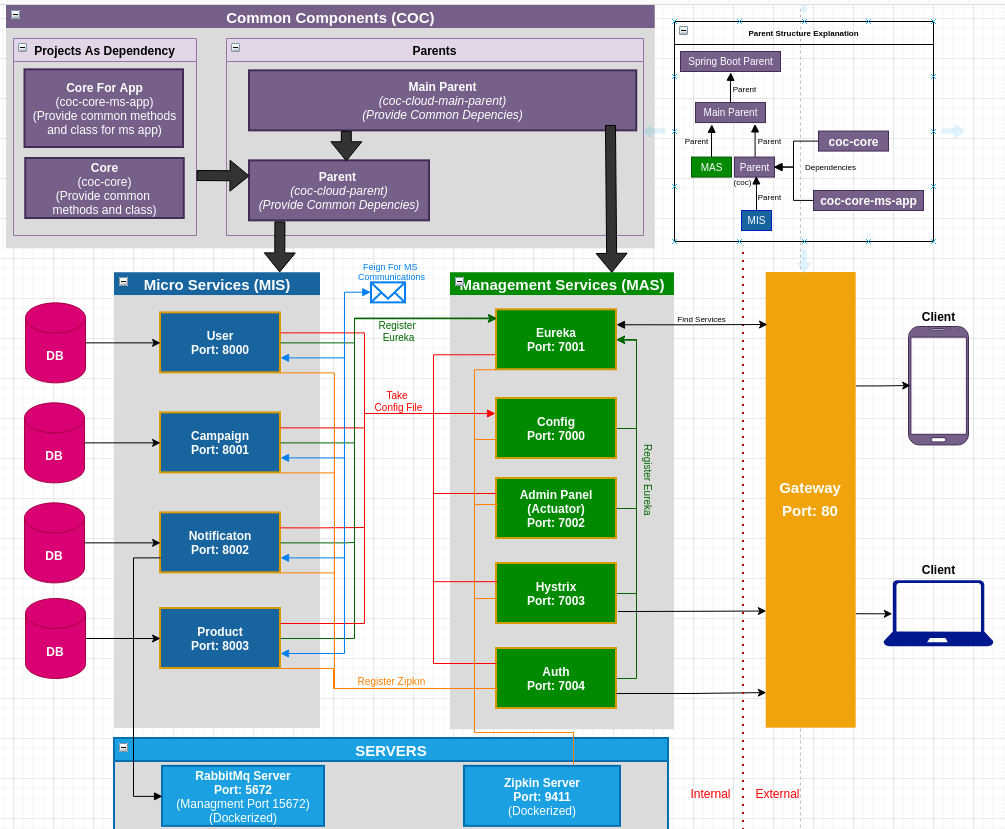
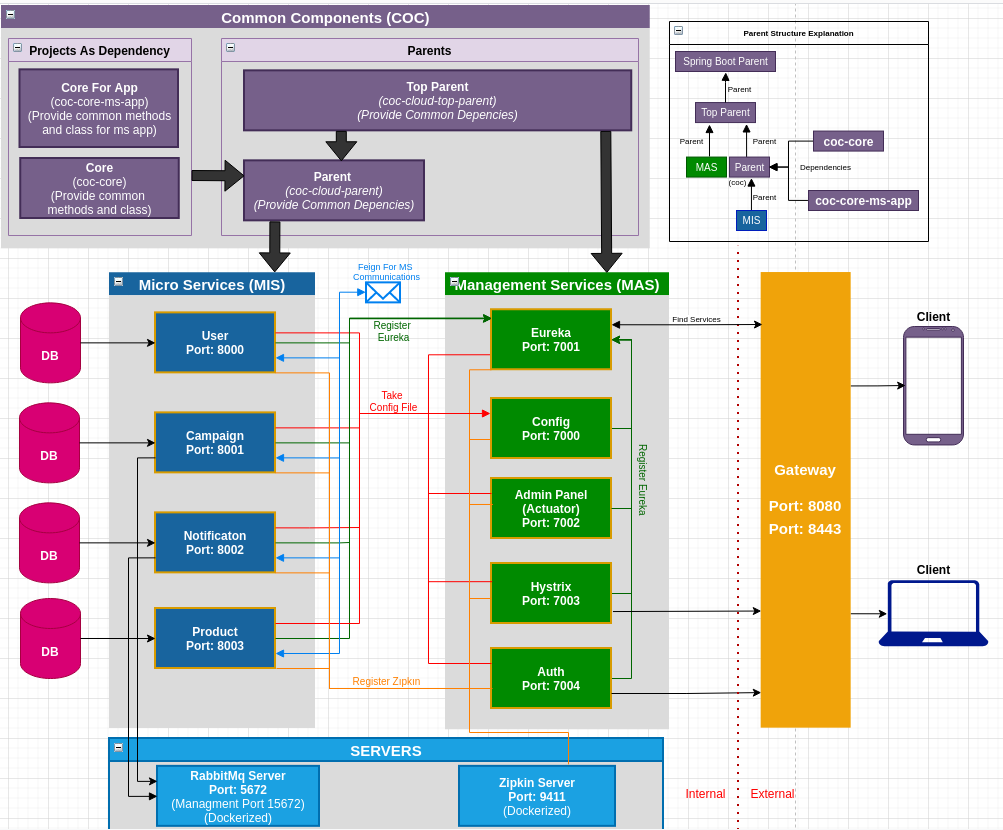
gw

diff --git a/api-gateway-service/src/main/java/com/erensayar/apigatewayservice/HystrixController.java b/api-gateway-service/src/main/java/com/erensayar/apigatewayservice/HystrixController.java
@@ -1,0 +1,31 @@
+package com.erensayar.apigatewayservice;
+
+import org.springframework.web.bind.annotation.GetMapping;
+import org.springframework.web.bind.annotation.RequestMapping;
+import org.springframework.web.bind.annotation.RestController;
+
+@RestController
+@RequestMapping("/exc")
+public class HystrixController {
+
+  @GetMapping("/users")
+  public String userFallback() {
+    return "User Service is not available.";
+  }
+
+  @GetMapping("/campaigns")
+  public String campaignFallback() {
+    return "Campaign Service is not available.";
+  }
+
+  @GetMapping("/notifications")
+  public String notificationFallback() {
+    return "Notification Service is not available.";
+  }
+
+  @GetMapping("/products")
+  public String productFallback() {
+    return "Product Service is not available.";
+  }
+
+}

diff --git a/mis-notification-service/src/main/java/com/erensayar/misnotificationservice/MisNotificationServiceApplication.java b/mis-notification-service/src/main/java/com/erensayar/misnotificationservice/MisNotificationServiceApplication.java
@@ -7,6 +7,7 @@ import org.modelmapper.ModelMapper;
 import org.modelmapper.config.Configuration.AccessLevel;
 import org.springframework.boot.SpringApplication;
 import org.springframework.boot.autoconfigure.SpringBootApplication;
+import org.springframework.cloud.client.discovery.EnableDiscoveryClient;
 import org.springframework.cloud.openfeign.EnableFeignClients;
 import org.springframework.context.annotation.Bean;
 
@@ -16,6 +17,7 @@ import org.springframework.context.annotation.Bean;
     CampaignServiceFeignClient.class
 })
 @SpringBootApplication
+@EnableDiscoveryClient
 public class MisNotificationServiceApplication {
 
   public static void main(String[] args) {

diff --git a/mis-product-service/src/main/java/com/erensayar/misproductservice/MisProductServiceApplication.java b/mis-product-service/src/main/java/com/erensayar/misproductservice/MisProductServiceApplication.java
@@ -7,6 +7,7 @@ import org.modelmapper.ModelMapper;
 import org.modelmapper.config.Configuration.AccessLevel;
 import org.springframework.boot.SpringApplication;
 import org.springframework.boot.autoconfigure.SpringBootApplication;
+import org.springframework.cloud.client.discovery.EnableDiscoveryClient;
 import org.springframework.cloud.openfeign.EnableFeignClients;
 import org.springframework.context.annotation.Bean;
 
@@ -16,6 +17,7 @@ import org.springframework.context.annotation.Bean;
     CampaignServiceFeignClient.class
 })
 @SpringBootApplication
+@EnableDiscoveryClient
 public class MisProductServiceApplication {
 
   public static void main(String[] args) {

diff --git a/mis-campaign-service/src/main/java/com/erensayar/miscampaignservice/MisCampaignServiceApplication.java b/mis-campaign-service/src/main/java/com/erensayar/miscampaignservice/MisCampaignServiceApplication.java
@@ -7,6 +7,7 @@ import org.modelmapper.ModelMapper;
 import org.modelmapper.config.Configuration.AccessLevel;
 import org.springframework.boot.SpringApplication;
 import org.springframework.boot.autoconfigure.SpringBootApplication;
+import org.springframework.cloud.client.discovery.EnableDiscoveryClient;
 import org.springframework.cloud.openfeign.EnableFeignClients;
 import org.springframework.context.annotation.Bean;
 
@@ -16,6 +17,7 @@ import org.springframework.context.annotation.Bean;
     UserServiceFeignClient.class
 })
 @SpringBootApplication
+@EnableDiscoveryClient
 public class MisCampaignServiceApplication {
 
   public static void main(String[] args) {

diff --git a/mis-user-service/src/main/java/com/erensayar/misuserservice/MisUserServiceApplication.java b/mis-user-service/src/main/java/com/erensayar/misuserservice/MisUserServiceApplication.java
@@ -7,6 +7,7 @@ import org.modelmapper.ModelMapper;
 import org.modelmapper.config.Configuration.AccessLevel;
 import org.springframework.boot.SpringApplication;
 import org.springframework.boot.autoconfigure.SpringBootApplication;
+import org.springframework.cloud.client.discovery.EnableDiscoveryClient;
 import org.springframework.cloud.openfeign.EnableFeignClients;
 import org.springframework.context.annotation.Bean;
 
@@ -16,6 +17,7 @@ import org.springframework.context.annotation.Bean;
     CampaignServiceFeignClient.class
 })
 @SpringBootApplication
+@EnableDiscoveryClient
 public class MisUserServiceApplication {
 
   public static void main(String[] args) {

diff --git a/api-gateway-service/src/main/java/com/erensayar/apigatewayservice/GatewayCircuitBreakerAutoConfiguration.java b/api-gateway-service/src/main/java/com/erensayar/apigatewayservice/GatewayCircuitBreakerAutoConfiguration.java
@@ -1,0 +1,13 @@
+package com.erensayar.apigatewayservice;
+
+import org.springframework.boot.autoconfigure.condition.ConditionalOnClass;
+import org.springframework.cloud.circuitbreaker.resilience4j.ReactiveResilience4JAutoConfiguration;
+import org.springframework.cloud.netflix.hystrix.HystrixCircuitBreakerAutoConfiguration;
+import org.springframework.web.reactive.DispatcherHandler;
+
+@ConditionalOnClass({DispatcherHandler.class,
+    ReactiveResilience4JAutoConfiguration.class,
+    HystrixCircuitBreakerAutoConfiguration.class})
+public class GatewayCircuitBreakerAutoConfiguration {
+
+}

diff --git a/mis-campaign-service/src/main/java/com/erensayar/miscampaignservice/service/implementation/CampaignNotificationServiceImpl.java b/mis-campaign-service/src/main/java/com/erensayar/miscampaignservice/service/implementation/CampaignNotificationServiceImpl.java
@@ -19,8 +19,8 @@ public class CampaignNotificationServiceImpl implements CampaignNotificationServ
   public void pushCampaignNotification(NotificationDto notificationDto) {
     log.info(notificationDto.toString());
     rabbitTemplate.convertAndSend(
-        rabbitMqConstant.getExchange().getTopic(),
-        rabbitMqConstant.getRoutingKey().getNotification(),
+        rabbitMqConstant.getExchange().getDirect(),
+        rabbitMqConstant.getRoutingKey().getCampaign(),
         notificationDto);
   }
 

diff --git a/api-gateway-service/src/main/java/com/erensayar/apigatewayservice/ApiGatewayServiceApplication.java b/api-gateway-service/src/main/java/com/erensayar/apigatewayservice/ApiGatewayServiceApplication.java
@@ -2,11 +2,9 @@ package com.erensayar.apigatewayservice;
 
 import org.springframework.boot.SpringApplication;
 import org.springframework.boot.autoconfigure.SpringBootApplication;
-import org.springframework.cloud.client.discovery.EnableDiscoveryClient;
 import org.springframework.cloud.netflix.hystrix.EnableHystrix;
 
-@EnableHystrix
-@EnableDiscoveryClient
+//@EnableHystrix
 @SpringBootApplication
 public class ApiGatewayServiceApplication {
 

diff --git a/README.md b/README.md
@@ -11,10 +11,10 @@ This project microservice architecture implementation trying on spring cloud eco
 ### Used Spring Cloud Modules
 * Config Server
 * Eureka Server
-* Zuul Api Gateway
-* Ribbon
-* Admin Panel
+* Spring Cloud Gateway
+* Spring Cloud Load Balancer
 * Hystrix
+* Admin Panel
 * Zipkin
 
 ---
@@ -42,7 +42,7 @@ This project microservice architecture implementation trying on spring cloud eco
 
 # Working Principle
 
-![WorkingPrinciple](dev-docs/images/ss-purpose.png)
+![WorkingPrinciple](dev-docs/images/ss-purpose-and-query-structure.png)
 
 # Logic
 
@@ -99,18 +99,19 @@ In project root directory:
 * Load Balancing
 * Feign Communication
 * Query Communication
-* Business for test (MIS)
+* Business (MIS)
 * Dockerizing Modules
 
 # TO-DO
 
-* Gateway implementation (Zuul GW Implementation)
+* Gateway improvement
 * Config server encryption-decryption
 * Hot config update (refreshcope etc..)
-* Load Balancing (improvement)
+* Load Balancing with spring cloud load balancer
 * Admin server duplicate instance?
-* Notification service query consumer broken
 * Auth server
+
+
 * Mail notification implementation
 * Phone notification implementation
 * Phone notification simulation
@@ -177,12 +178,10 @@ images/
 ### Tags
 * spring cloud microservice example
 * microservice example
-* zuul example
-* zuul api gateway example
-* ribbon example
-* ribbon load balancer example
+* api gateway example
+* spring cloud gateway example
 * load balance example
-* eureka+ribbon+zuul+hystrix
+* spring cloud load balancer example
 * config server example
 * eureka server example
 * admin server example
